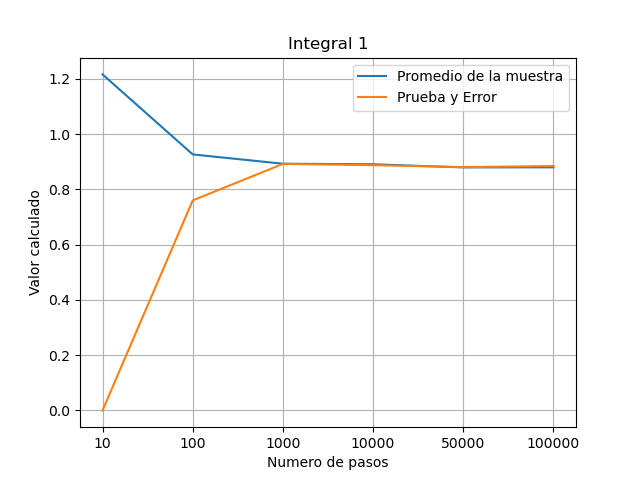
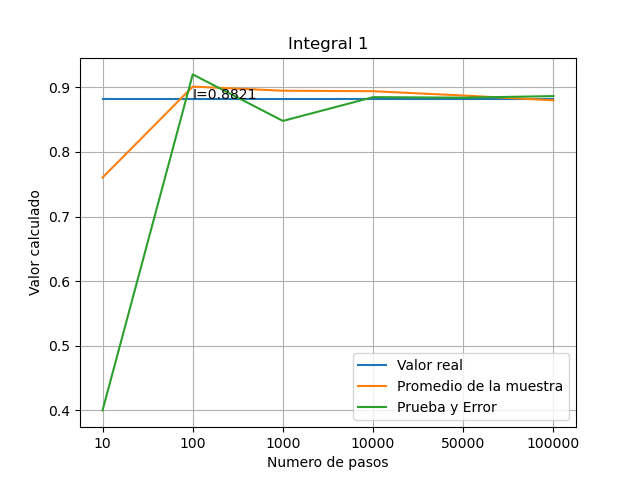
Laboratorio 1-detalles

diff --git a/Laboratorio_1/script.py b/Laboratorio_1/script.py
@@ -1,6 +1,6 @@
 import numpy as np
 import matplotlib.pyplot as plt
-
+from scipy.integrate import quad
 '''
 
 --------------Promedio de la muestra-----------------
@@ -96,12 +96,15 @@ def comparar_metodos(title,func,a,b,pasos=[10,100,1000]):
         rm_1.append(r1)
         rm_2.append(r2)
 
+    integral_real = quad(func,a,b)
     sp = range(len(pasos))
     plt.grid()
     plt.title(title)
     plt.xticks(sp,pasos)
     plt.xlabel("Numero de pasos")
     plt.ylabel("Valor calculado")
+    plt.text(1,integral_real[0],"I={}".format(round(integral_real[0],4)))
+    plt.plot(np.ones_like(rm_1)*integral_real[0],label="Valor real")
     plt.plot(rm_1,label="Promedio de la muestra")
     plt.plot(rm_2,label="Prueba y Error")
     plt.legend()
